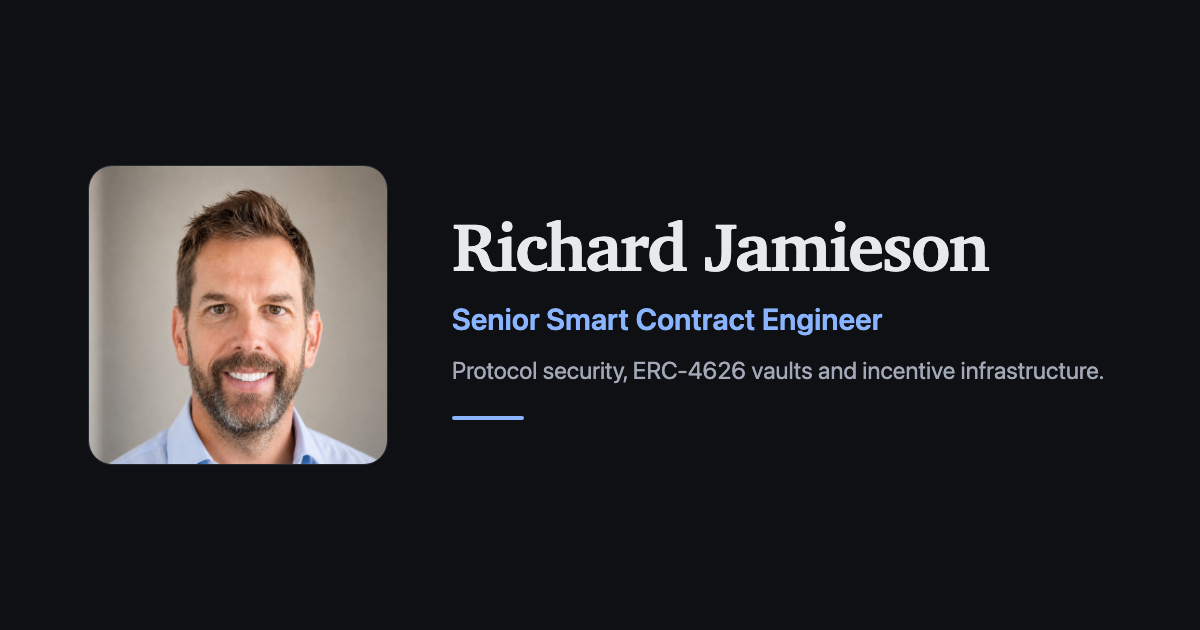
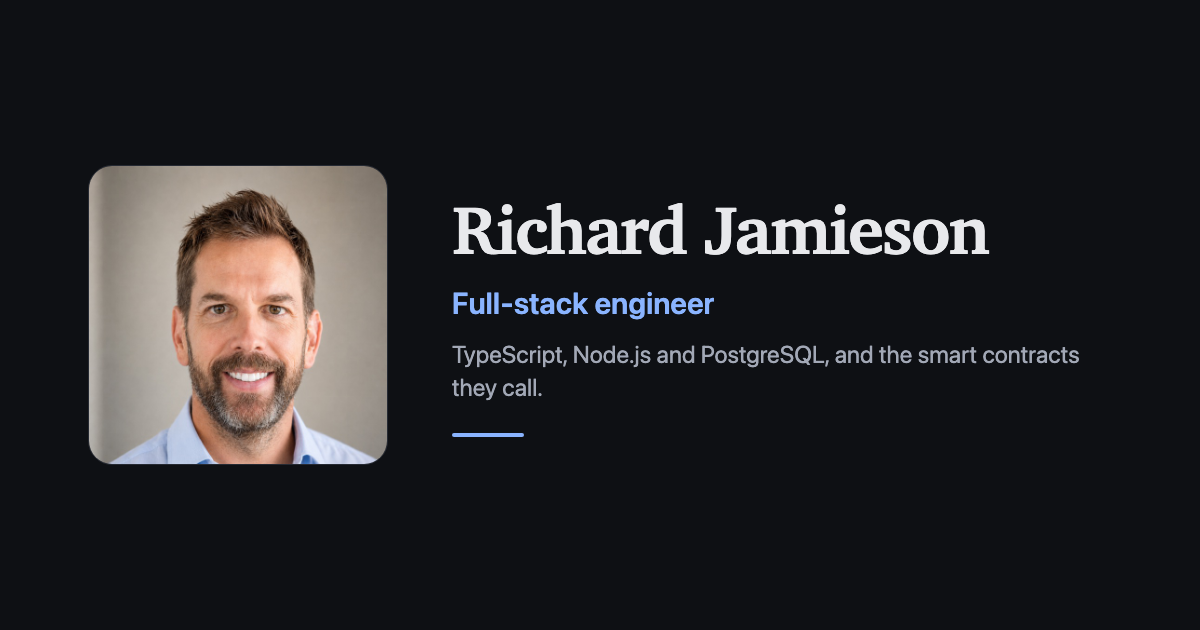
site: rebuild portfolio and serve richardjamieson.co.za

Changed region(s): [[0.37, 0.3016, 0.925, 0.6937]]

diff --git a/index.html b/index.html
@@ -4,10 +4,10 @@
 <meta charset="utf-8">
 <meta name="viewport" content="width=device-width,initial-scale=1">
 <title>Richard Jamieson</title>
-<meta name="description" content="Protocol architect and engineering lead. Solidity, cross-chain vault systems, incentive infrastructure and smart-contract security.">
+<meta name="description" content="Full-stack engineer, mostly backend. TypeScript services on PostgreSQL, the smart contracts they call, and the front ends around them.">
 <meta name="color-scheme" content="light dark">
 <meta property="og:title" content="Richard Jamieson">
-<meta property="og:description" content="Protocol architect and engineering lead. Solidity, cross-chain vault systems, incentive infrastructure and smart-contract security.">
+<meta property="og:description" content="Full-stack engineer, mostly backend. TypeScript services on PostgreSQL, the smart contracts they call, and the front ends around them.">
 <meta property="og:type" content="website">
 <meta property="og:image" content="https://richardjamieson.co.za/assets/og-image.png">
 <meta property="og:url" content="https://richardjamieson.co.za/">
@@ -25,9 +25,9 @@
 </header>
 <main id="main">
 <section class="hero">
-<h1>Protocol architect and engineering lead</h1>
-<p>I design, build and secure DeFi infrastructure — Solidity contracts, cross-chain vault systems, and the off-chain services that settle them on-chain.</p>
-<p>Currently Senior Smart Contract Engineer at <strong>Hydrex</strong>, a concentrated-liquidity DEX on Base, where I am the sole engineer on the protocol's liquidity-mining reward system. Before that I founded <strong>Amana DeFi</strong>, an omnichain yield aggregator on ZetaChain, and wrote its protocol layer.</p>
+<h1>Full-stack engineer, mostly backend</h1>
+<p>Since 2021 I've worked in crypto, writing smart contracts and the backend services and front ends that sit around them.</p>
+<p>At <strong>Hydrex</strong>, a DEX on Base, I started on the contracts, then built the service that pays out the protocol's liquidity rewards and ran it as its only engineer. I was there on contract from November 2025 to September 2026, and I've stayed on part-time since as a consulting engineer. Before that I founded <strong>Amana DeFi</strong>, a cross-chain yield aggregator on ZetaChain, and wrote most of its Solidity and much of its front end.</p>
 <p>Twenty years of work before this — corporate finance, two companies of my own, and a decade developing leaders — which is why I tend to think about systems and the people running them at the same time.</p>
 </section>
 
@@ -38,11 +38,11 @@
   <header>
     <h3><a href="./work/hydrex.html">Hydrex</a></h3>
     <p class="role">Senior Smart Contract Engineer</p>
-    <p class="period">November 2025 – present</p>
+    <p class="period">November 2025 – September 2026</p>
   </header>
-  <p>Concentrated-liquidity DEX on Base. Sole engineer on the protocol's liquidity-mining reward system, and a contributor to its contract layer.</p>
-  <div class="metrics"><div class="metric"><span class="figure">25.1M</span><span class="label">tokens distributed</span></div><div class="metric"><span class="figure">1,669</span><span class="label">liquidity providers</span></div><div class="metric"><span class="figure">99.97%</span><span class="label">transaction success</span></div></div>
-  <ul class="tags"><li>Solidity</li><li>TypeScript</li><li>NestJS</li><li>PostgreSQL</li><li>Merkle</li><li>Base</li></ul>
+  <p>Concentrated-liquidity DEX on Base. Built and ran the service that pays out its liquidity rewards, as its only engineer, and wrote contracts it depends on. Consulting part-time since October 2026.</p>
+  <div class="metrics"><div class="metric"><span class="figure">25.1M</span><span class="label">tokens paid out</span></div><div class="metric"><span class="figure">1,669</span><span class="label">liquidity providers</span></div><div class="metric"><span class="figure">6.1s → 1.5s</span><span class="label">bulk-proof p90</span></div></div>
+  <ul class="tags"><li>TypeScript</li><li>NestJS</li><li>PostgreSQL</li><li>Redis</li><li>Solidity</li><li>Base</li></ul>
   <p class="more"><a href="./work/hydrex.html">Read more →</a></p>
 </article>
 <article class="card">
@@ -53,7 +53,7 @@
   </header>
   <p>Omnichain yield aggregator on ZetaChain. Founded it, designed the architecture and wrote the protocol layer.</p>
   <div class="metrics"><div class="metric"><span class="figure">94%</span><span class="label">of the Solidity written</span></div><div class="metric"><span class="figure">6</span><span class="label">mainnet chains</span></div><div class="metric"><span class="figure">21</span><span class="label">yield strategies</span></div></div>
-  <ul class="tags"><li>Solidity</li><li>ERC-4626</li><li>Cross-chain</li><li>ZetaChain</li><li>Foundry</li></ul>
+  <ul class="tags"><li>Solidity</li><li>ERC-4626</li><li>Cross-chain</li><li>ZetaChain</li><li>Next.js</li></ul>
   <p class="more"><a href="./work/amana.html">Read more →</a></p>
 </article>
 <article class="card">
@@ -62,7 +62,7 @@
     <p class="role">Lead Solidity Developer</p>
     <p class="period">July 2021 – July 2022</p>
   </header>
-  <p>Multi-chain vaulting protocol. Led the Solidity team through a V3 redesign and an external audit.</p>
+  <p>Multi-chain vaulting protocol. Led the Solidity team and took the vault contracts through an external audit.</p>
   <div class="metrics"><div class="metric"><span class="figure">$30M+</span><span class="label">peak TVL</span></div><div class="metric"><span class="figure">3</span><span class="label">engineers led</span></div></div>
   <ul class="tags"><li>Solidity</li><li>Vaults</li><li>Polygon</li><li>Cronos</li><li>Truffle</li></ul>
   <p class="more"><a href="./work/crystl.html">Read more →</a></p>
@@ -100,15 +100,15 @@
 <p>Most of the bugs I have found in production did not throw an error. They balanced. They reconciled. They were simply paying the wrong number to the wrong person, quietly, for weeks. That class of defect is why I think security is a design activity rather than a testing activity — you find these by reasoning about state transitions, not by waiting for something to go red.</p>
 <p><strong>What that looks like in practice</strong></p>
 <ul>
-<li>Specifying a system's financial invariants explicitly — budget conservation, monotonic allocation, duplicate-free trees, encoding matched byte-for-byte against the on-chain verifier — and then enforcing them in tests and in scripts that run against production data as a deployment gate.</li>
+<li>Specifying a system's financial invariants explicitly — budget conservation, monotonic allocation, duplicate-free trees, encoding matched byte-for-byte against the on-chain verifier — and then testing them, with scripts I run against production data before deploys.</li>
 <li>Leading external audit engagements from the client side: scoping, responding to findings, deciding remediations, and arguing when I disagree.</li>
 <li>Running an internal review pass before anything reaches an external auditor.</li>
 </ul>
 <p><strong>Track record</strong></p>
 <ul>
-<li>Sole counterpart to external auditors across four engagements at Hydrex. The decentralisation workstream I delivered came back with <strong>zero high-severity findings across fifteen contracts</strong>, and no failed remediations.</li>
+<li>Sole counterpart to external auditors across four engagements at Hydrex. The decentralisation workstream I delivered came back with <strong>zero high-severity findings across fifteen contracts</strong>.</li>
 <li>Took Amana through external audit by Linum Labs as founder, having run static analysis in-house first.</li>
-<li>Took Crystl Finance's V3 vault contracts through a HashEx audit — both the <a href="https://richardjamieson.co.za/documents/Crystl-Vaults_preliminary-audit-report_1648559243967.pdf">preliminary</a> and <a href="https://richardjamieson.co.za/documents/Crystl-Vaults_audit-report_1651814621605.pdf">final</a> reports are public.</li>
+<li>Took Crystl Finance's vault contracts through a HashEx audit — both the <a href="https://richardjamieson.co.za/documents/Crystl-Vaults_preliminary-audit-report_1648559243967.pdf">preliminary</a> and <a href="https://richardjamieson.co.za/documents/Crystl-Vaults_audit-report_1651814621605.pdf">final</a> reports are public.</li>
 <li>Completed a platform-wide threat model at Atem, covering databases, contracts, frontend, hosting, multisigs and custody, with a matching control table for prevention, monitoring and response.</li>
 <li>Competing in audit contests, with accepted findings on HackenProof.</li>
 </ul>
@@ -153,7 +153,7 @@
 <h2 id="about">About</h2>
 <img class="portrait" src="assets/profile-640.jpg" srcset="assets/profile-320.jpg 320w, assets/profile-640.jpg 640w" sizes="168px" width="168" height="168" alt="Richard Jamieson" loading="lazy">
 <p>I came to software late and deliberately.</p>
-<p>I read Philosophy and Pure Mathematics, then Electrical Engineering, at the University of Cape Town. I started out in corporate finance — leveraged finance at Citigroup in London, equity research at Sanford C. Bernstein before that — then came home and spent the next decade in leadership work: setting up and running a political party's leadership academy, then designing programmes for corporates, then heading a coaching practice. Along the way I started two businesses, one in solar installation and one in mindfulness training.</p>
+<p>I studied philosophy and then electrical engineering at the University of Cape Town. I started out in corporate finance — leveraged finance at Citigroup in London, equity research at Sanford C. Bernstein before that — then came home and spent the next decade in leadership work: setting up and running a political party's leadership academy, then designing programmes for corporates, then heading a coaching practice. Along the way I started two businesses, one in solar installation and one in mindfulness training.</p>
 <p>The through-line I had lost was the one I had been best at as a teenager: mathematics, systems, and code. In 2021 I went back to it properly, chose Solidity, and started building. A hackathon runner-up finish and a bounty submission turned into core-team roles at two protocols, and it has been full-time since.</p>
 <p><strong>What that background is actually worth.</strong> Two things, and I would rather be concrete about them than claim they make me special.</p>
 <p>The finance is genuinely useful. Leveraged finance is structurally the same subject as DeFi lending — collateral, leverage, liquidation, credit risk — so I can hold a conversation about risk in financial terms and not only in protocol terms.</p>
@@ -162,8 +162,8 @@
 <p>Outside work: my partner and our two daughters, then surfing, trail running and mountain biking, in roughly that order of priority.</p>
 <p><strong>Education</strong></p>
 <ul>
-<li>BSc Electrical Engineering, University of Cape Town — Honours, Cum Laude; Dean's List 2001, 2002, 2003</li>
-<li>BA Philosophy and Mathematics, University of Cape Town</li>
+<li>BSc(Eng) Electrical Engineering, University of Cape Town — First Class Honours; Dean's Merit List 2001 and 2002</li>
+<li>BSocSc, University of Cape Town</li>
 <li>Professional Coaching Certificate, UCT Graduate School of Business</li>
 </ul>
 </section>

diff --git a/work/hydrex.html b/work/hydrex.html
@@ -4,10 +4,10 @@
 <meta charset="utf-8">
 <meta name="viewport" content="width=device-width,initial-scale=1">
 <title>Hydrex — Richard Jamieson</title>
-<meta name="description" content="Concentrated-liquidity DEX on Base. Sole engineer on the protocol&#x27;s liquidity-mining reward system, and a contributor to its contract layer.">
+<meta name="description" content="Concentrated-liquidity DEX on Base. Built and ran the service that pays out its liquidity rewards, as its only engineer, and wrote contracts it depends on. Consulting part-time since October 2026.">
 <meta name="color-scheme" content="light dark">
 <meta property="og:title" content="Hydrex — Richard Jamieson">
-<meta property="og:description" content="Concentrated-liquidity DEX on Base. Sole engineer on the protocol&#x27;s liquidity-mining reward system, and a contributor to its contract layer.">
+<meta property="og:description" content="Concentrated-liquidity DEX on Base. Built and ran the service that pays out its liquidity rewards, as its only engineer, and wrote contracts it depends on. Consulting part-time since October 2026.">
 <meta property="og:type" content="website">
 <meta property="og:image" content="https://richardjamieson.co.za/assets/og-image.png">
 <meta property="og:url" content="https://richardjamieson.co.za/work/hydrex.html">
@@ -29,28 +29,36 @@
   <p class="eyebrow"><a href="../#work">Work</a></p>
   <h1>Hydrex</h1>
   <p class="role">Senior Smart Contract Engineer</p>
-  <p class="period">November 2025 – present</p>
-  <div class="metrics"><div class="metric"><span class="figure">25.1M</span><span class="label">tokens distributed</span></div><div class="metric"><span class="figure">1,669</span><span class="label">liquidity providers</span></div><div class="metric"><span class="figure">99.97%</span><span class="label">transaction success</span></div></div>
+  <p class="period">November 2025 – September 2026</p>
+  <div class="metrics"><div class="metric"><span class="figure">25.1M</span><span class="label">tokens paid out</span></div><div class="metric"><span class="figure">1,669</span><span class="label">liquidity providers</span></div><div class="metric"><span class="figure">6.1s → 1.5s</span><span class="label">bulk-proof p90</span></div></div>
 </header>
-<p>Hydrex is a concentrated-liquidity DEX on Base. I joined in November 2025 as a senior smart contract engineer, and I own its liquidity-mining reward system outright.</p>
-<h2 id="the-reward-system">The reward system</h2>
+<p>Hydrex is a concentrated-liquidity DEX on Base. I joined in November 2025 as a senior smart contract engineer. I started on the contracts, then built the service that pays out the protocol's liquidity rewards, which replaced an outside provider, and I was its only engineer. My contract ran to September 2026. Since October I've stayed on part-time as a consulting engineer, making fixes and looking after the systems I built.</p>
+<h2 id="the-reward-service">The reward service</h2>
 <p>Liquidity mining sounds simple until you try to make it exact. A campaign says: pay this budget, to whoever provides liquidity in this pool, over this window, in proportion to how much and for how long. Doing that honestly means measuring every position continuously, and settling on-chain cheaply enough that the gas does not eat the reward.</p>
-<p>I designed and built the whole thing — a TypeScript and NestJS service that continuously snapshots every position in incentivised pools, converts those observations into time-weighted score-seconds, allocates against a fixed budget, publishes Merkle roots on-chain, and serves claim proofs through a public API. PostgreSQL with TimescaleDB underneath, Redis for caching.</p>
-<p><strong>To date it has distributed 25.1 million tokens to 1,669 liquidity providers, across 2,469 campaigns and 163 pools, through 777,470 on-chain root updates.</strong></p>
+<p>I designed and built the whole thing — a TypeScript and NestJS service that continuously snapshots every position in incentivised pools, converts those observations into time-weighted score-seconds, allocates against a fixed budget, publishes Merkle roots on-chain, and serves claim proofs through a public API. PostgreSQL with TimescaleDB underneath, Redis for caching. I also wrote the distributor contract it publishes to.</p>
+<p>In its first six months, to August 2026, it distributed <strong>25.1 million tokens</strong> to <strong>1,669 liquidity providers</strong>, across 2,469 campaigns and 163 pools.</p>
 <h2 id="the-constraint-that-shaped-the-design">The constraint that shaped the design</h2>
 <p>Merkle roots here are cumulative and irreversible. Once a root is published, an allocation can only ever go up — you cannot claw back a number you have already committed to. Every other design decision follows from that.</p>
 <p>So rather than recomputing totals and asserting afterwards that they never decreased, I built the allocator around incremental deltas, which makes the monotonic floor hold <em>by construction</em>. The pipeline snapshots first and aggregates second, which keeps every reward calculation replayable from raw observations — if a number is ever disputed, it can be rebuilt from what was actually observed on-chain rather than from a cached total.</p>
-<p>Settlement is batched: one transaction per cycle carrying every campaign's root. Gas stays roughly flat as campaigns multiply — about 18k gas per root, <strong>0.096 ETH in total</strong> across the system's life. It has absorbed an elevenfold increase in concurrent campaigns without a change in throughput, and sustained <strong>99.97% transaction success across 154 consecutive days</strong> of unattended operation.</p>
+<p>Settlement is batched: one transaction per cycle carrying every campaign's root, at about 18k gas per root, so gas stays roughly flat as campaigns multiply. It has run since February 2026, through an elevenfold rise in concurrent campaigns.</p>
+<h2 id="running-it">Running it</h2>
+<p>I ran the service in production myself, so I built the parts around the reward logic too.</p>
+<ul>
+<li><strong>The API.</strong> About 20 REST endpoints with rate limiting, serving single and bulk claim proofs to the web app. I cut the bulk-proof p90 from 6.1s to 1.5s, and raised the proof-cache hit rate from 77% to 96%.</li>
+<li><strong>An integration for the Base team.</strong> An endpoint that returns ready-to-send calldata for creating a campaign, with validation, an integration guide and Swagger docs. They have since run test campaigns on it.</li>
+<li><strong>Splitting web from worker.</strong> During a weekly flip, people reading proofs while aggregation ran took the API down, and the whole service had to be restarted. I split it into separate web and worker processes, so each side's memory and CPU needs are separate, and it cost less to host. It also keeps the signing key off the public API: it is mounted on the worker alone, and the operator account holds a single on-chain role with no admin rights.</li>
+<li><strong>A race in Postgres.</strong> During a deploy, two aggregators wrote duplicate batches for four campaigns, and only one of each pair reached the chain. I cleaned up against on-chain state and added an advisory lock and a unique index to stop it recurring.</li>
+<li><strong>Watching it.</strong> Twelve health checks, Discord alerting and memory circuit breakers.</li>
+</ul>
 <h2 id="invariants-and-the-bugs-they-did-not-catch">Invariants, and the bugs they did not catch</h2>
-<p>I specified seven financial invariants — budget conservation, the monotonic floor, duplicate-free trees, leaf encoding matched byte-for-byte to the on-chain verifier — enforced by 488 tests and by standalone audit scripts that run against production data as a deployment gate.</p>
-<p>Two defects still got through, and both are the interesting kind: neither raised an error.</p>
+<p>Three weeks before it paid anyone, I listed 62 ways the system could fail and wrote seven financial invariants from them — budget conservation, the monotonic floor, duplicate-free trees, leaf encoding matched byte-for-byte to the on-chain verifier. Each has tests, and I ran audit scripts against production data before deploys.</p>
+<p>Two defects still got through, and neither raised an error.</p>
 <p>The first divided an <em>incremental</em> reward delta by a <em>cumulative</em> score-seconds denominator. Newly joined providers were underpaid by up to a third; providers who had left kept accruing. Every batch balanced. The budget held. Somebody's yield was simply quietly wrong.</p>
 <p>The second was a cache key. The snapshot downsampler keyed its cache on the position, while the row it guarded was per-campaign. Wherever two campaigns ran on the same pool, the second silently wrote zero snapshots — and because processing order reshuffled each cycle, each campaign lost roughly half its data, nondeterministically. I found it by auditing the pipeline ahead of a change in campaign-creation permissions, and confirmed it was already affecting live pools.</p>
-<p>I think about those two more than anything else I have shipped. Failure modes that do not look like failures are the ones worth building your process around.</p>
-<h2 id="contracts-and-security">Contracts and security</h2>
-<p>Alongside the distributor I work on the protocol's Solidity — roughly 6,370 lines of production contract code to date.</p>
-<p>I delivered the protocol's decentralisation workstream, moving privileged functions behind a timelock and tightening who can do what on-chain. <strong>Fifteen contracts, audited, zero high-severity findings, no failed remediations.</strong> I have been the sole counterpart to our external auditors across four engagements: scoping, findings response, remediation.</p>
-<p>I also split the distributor from one process into separate web and worker processes. The driver was operational — a shared connection pool let aggregation starve user requests, and memory and hosting costs were unpredictable — but the security consequence is the better half: the public API process now cannot hold the signing key at all. The operator key is restricted to a single on-chain role, verified to hold no administrative privileges.</p>
+<p>I think about those two more than anything else I have shipped.</p>
+<h2 id="contracts">Contracts</h2>
+<p>Alongside the service I wrote contracts for the protocol: about 6,370 lines of production Solidity by August 2026.</p>
+<p>I delivered the protocol's decentralisation workstream, moving privileged functions behind a timelock and tightening who can do what on-chain. <strong>Fifteen contracts, audited, with zero high-severity findings.</strong> I was the sole counterpart to our external auditors across four engagements: scoping, findings response, remediation.</p>
 
 <p class="back"><a href="../#work">← All work</a></p>
 </article>

diff --git a/work/crystl.html b/work/crystl.html
@@ -4,10 +4,10 @@
 <meta charset="utf-8">
 <meta name="viewport" content="width=device-width,initial-scale=1">
 <title>Crystl Finance — Richard Jamieson</title>
-<meta name="description" content="Multi-chain vaulting protocol. Led the Solidity team through a V3 redesign and an external audit.">
+<meta name="description" content="Multi-chain vaulting protocol. Led the Solidity team and took the vault contracts through an external audit.">
 <meta name="color-scheme" content="light dark">
 <meta property="og:title" content="Crystl Finance — Richard Jamieson">
-<meta property="og:description" content="Multi-chain vaulting protocol. Led the Solidity team through a V3 redesign and an external audit.">
+<meta property="og:description" content="Multi-chain vaulting protocol. Led the Solidity team and took the vault contracts through an external audit.">
 <meta property="og:type" content="website">
 <meta property="og:image" content="https://richardjamieson.co.za/assets/og-image.png">
 <meta property="og:url" content="https://richardjamieson.co.za/work/crystl.html">
@@ -38,7 +38,7 @@
 <p>At the height of that cycle there were new yield farms appearing daily, and our job was to have vaults live on them quickly. Quickly, but not carelessly — every new farm was a new integration surface.</p>
 <p>We semi-automated it: configuration files in the repository, deployment scripts reading directly from those configs. Most farms were forks of two or three base designs, so the strategy contracts rarely needed an overhaul — but there were always quirks, dual-reward farms and unusual reward tokens among them, that needed a careful minimal change rather than a rewrite.</p>
 <p>I owned the test suite that gated all of it: contracts deployed onto a forked node against an archive node, exercising deposits, withdrawals and the rest after every change.</p>
-<h2 id="the-v3-vaults">The V3 vaults</h2>
+<h2 id="maximizer-and-boosted-vaults">Maximizer and boosted vaults</h2>
 <p>We were asked for three things the existing contracts could not do: <strong>maximizer vaults</strong> that compound into a second vault, <strong>boosted vaults</strong> paying additional rewards on top of the compounding yield, and <strong>zap in/out</strong> so users could deposit in whatever token they held.</p>
 <p>The design question at the outset was how much battle-tested code to keep. In smart contracts, old code that has survived contact with the world is worth a great deal. We decided to overhaul the majority of the vault structure while preserving the core accounting logic.</p>
 <p>The hardest part was tracking user shares accurately through multiple levels of vaulting, with users depositing and withdrawing at arbitrary times. That is deceptively difficult — it looks like bookkeeping until you write down the cases. Another engineer and I solved it by going back to first principles and deriving the share mathematics rather than patching it.</p>
